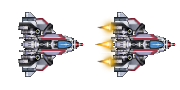
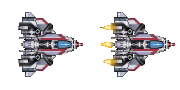
Modified the ship image for proper alpha, tested out basic ship mobility

Changed region(s): [[0.5278, 0.2222, 0.6667, 0.7778]]

diff --git a/main.py b/main.py
@@ -69,7 +69,7 @@ class Ship:
 		self.thrust = False
 		self.angle = angle
 		self.angle_vel = 0
-		self.image = image
+		self.image = image[0]
 		self.image_center = info.get_center()
 		self.image_size = info.get_size()
 		self.radius = info.get_radius()
@@ -113,22 +113,21 @@ class Ship:
         #else:
         #    canvas.draw_image(self.image, self.image_center, self.image_size, self.pos, self.image_size, self.angle)
 	def update(self):
-		pass
-        #self.pos[0] += self.vel[0]
-        #self.pos[1] += self.vel[1]
-        
-        # Friction update
-        #c = 0.015
-        #self.vel[0] *= (1 - c)
-        #self.vel[1] *= (1 - c)
+		self.pos[0] += self.vel[0]
+		self.pos[1] += self.vel[1]
+		
+		# Friction update
+		c = 0.015
+		self.vel[0] *= (1 - c)
+		self.vel[1] *= (1 - c)
         
         # Screen wrapping
            
-        #if self.pos[1] <= self.radius or self.pos[1] >= HEIGHT:
-        #    self.pos[1] = self.pos[1] % HEIGHT
-                      
-        #if self.pos[0] <= 0 or self.pos[0] >= WIDTH:
-        #    self.pos[0] = self.pos[0] % WIDTH
+		if self.pos[1] <= self.radius or self.pos[1] >= HEIGHT:
+			self.pos[1] = self.pos[1] % HEIGHT
+                  
+		if self.pos[0] <= 0 or self.pos[0] >= WIDTH:
+			self.pos[0] = self.pos[0] % WIDTH
             
         # Thrusting forward      
         #forward = angle_to_vector(self.angle)
@@ -136,7 +135,11 @@ class Ship:
         #    self.vel[0] += forward[0] * 0.1
         #    self.vel[1] += forward[1] * 0.1
         #self.angle += self.angle_vel
-		
+def draw(screen):
+	global my_ship
+	screen.fill((0, 0, 0))
+	my_ship.draw(screen)
+	pygame.display.flip()
 def main():
 	# Init pygame
 	pygame.init()
@@ -146,8 +149,8 @@ def main():
 	# Load the graphics
 	ship_info = ImageInfo([45, 45], [90, 90], 35)
 	ship_sheet = spritesheet.spritesheet('art/double_ship.png')
-	ship_images = ship_sheet.image_at((0, 0, 90, 90))
-	#ship_images = load_image('double_ship.png')
+	ship_images = ship_sheet.images_at(((0, 0, 90, 90),(90, 0, 90,90)), colorkey=(255, 255, 255))
+	#ship_images = load_image('double_ship2.png')
 	# Load the sounds
 	soundtrack = load_sound('music.ogg')
 	missile_sound = load_sound('shoot.wav')
@@ -155,11 +158,11 @@ def main():
 	explosion_sound = load_sound('explode.wav')
 	
 	# Init the ship and other objects
-	my_ship = Ship([WIDTH / 2, HEIGHT / 2], [0, 0], 0, ship_images, ship_info)
+	my_ship = Ship([WIDTH / 2, HEIGHT / 2], [10, 0], 0, ship_images, ship_info)
 	
 	# Draw the background
 	background = load_image('nebula_blue.f2014.png')
-	screen.blit(background, (0,0))
+	#screen.blit(background, (0,0))
 	pygame.display.flip()
 	
 	# Init game objects
@@ -172,9 +175,15 @@ def main():
 		for event in pygame.event.get():
 			if event.type == QUIT:
 				return
+		# Update everything
+		my_ship.update()
+		
 		# Draw everything
+		#screen.fill((0, 0, 0))
+		screen.blit(background, (0,0))
 		my_ship.draw(screen)
 		pygame.display.flip()
+		#draw(screen)
 print ("If you can see this, then PyGame was succesfully imported")
 
 
